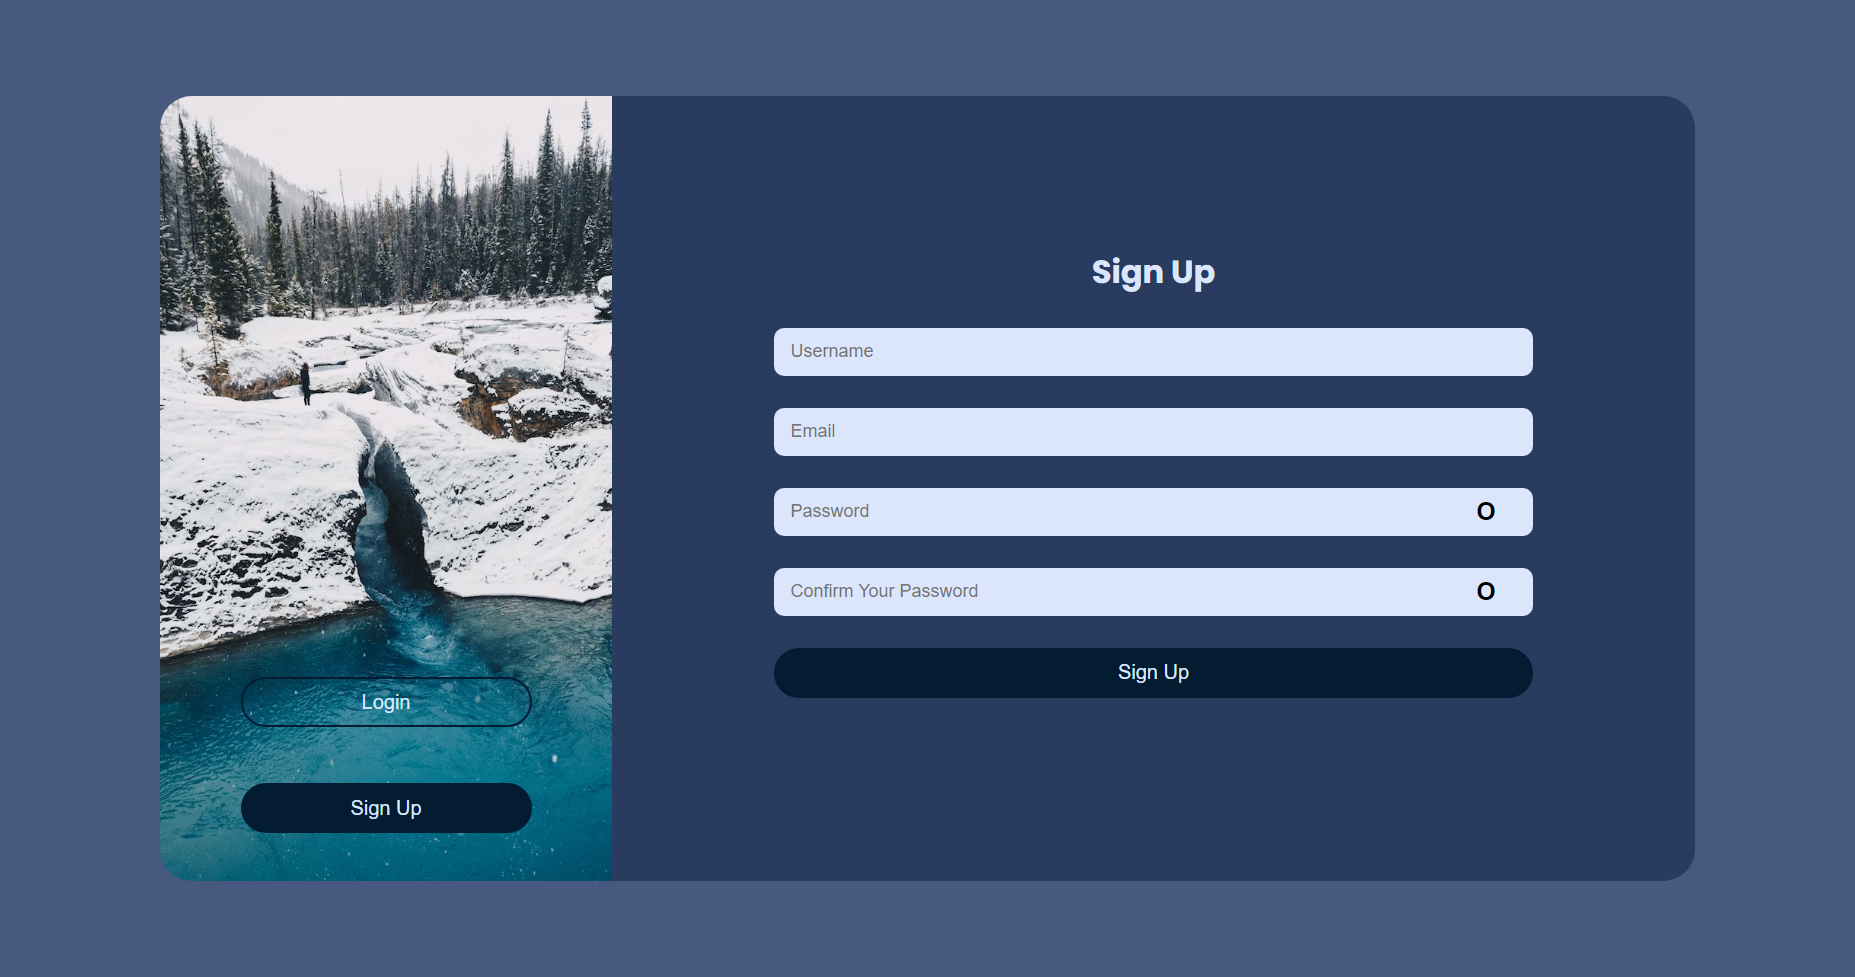
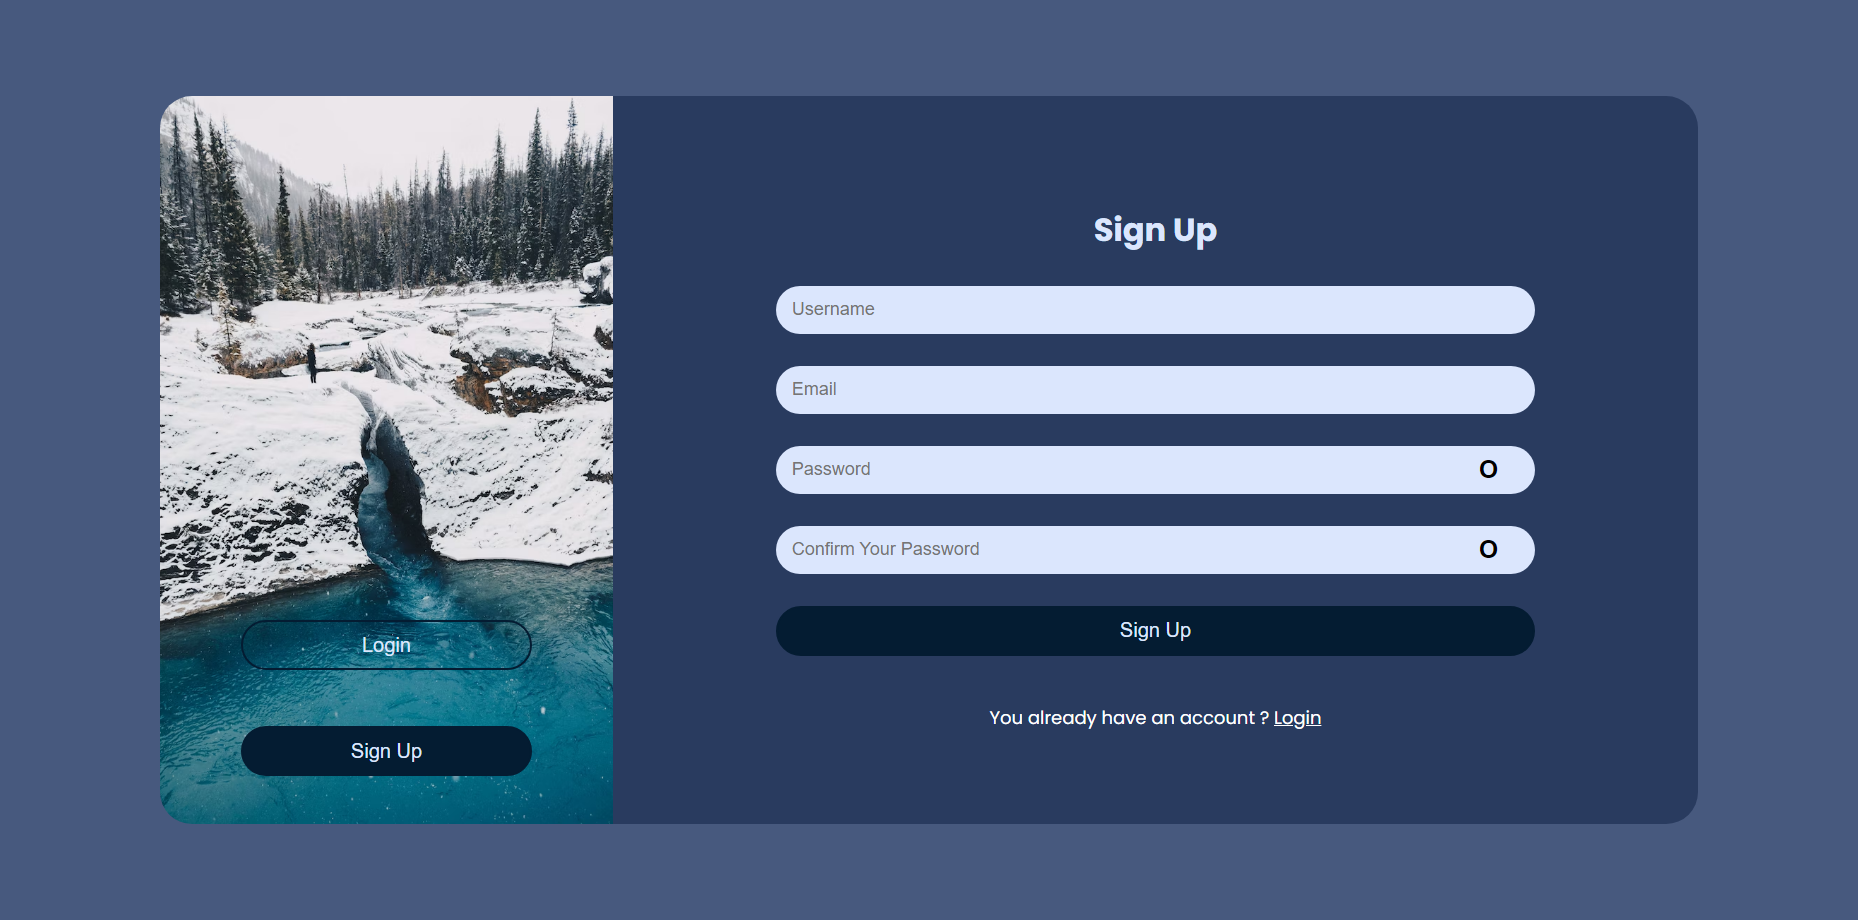
fully responsive login/sign up page

diff --git a/style.css b/style.css
@@ -113,8 +113,8 @@ button {
 }
 
 .login-form {
-  width: 50%;
-  height: 100%;
+  width: 70%;
+  height: 900%;
   display: flex;
   justify-content: center;
   align-items: center;
@@ -139,7 +139,7 @@ button {
 .login-form input {
   width: 100%;
   height: 3rem;
-  padding: 1rem 1.5rem;
+  padding: 1rem 1rem;
   font-size: 18px;
   border-radius: 32px;
   outline: none;
@@ -202,7 +202,7 @@ button {
   height: 3rem;
   padding: 1rem;
   font-size: 18px;
-  border-radius: 10px;
+  border-radius: 32px;
   outline: none;
   border: none;
   color: #777777;
@@ -224,4 +224,35 @@ button {
 
 .active {
   display: none;
+}
+
+@media only screen and (max-width: 873px) {
+  .container {
+    display: none;
+  }
+  .form-page {
+    width: 100%;
+    border-radius: 32px;
+    overflow: hidden;
+  }
+}
+
+@media only screen and (max-width: 655px) {
+  .container {
+    display: none;
+  }
+
+  .main-container {
+    padding: 0;
+    margin: 0;
+  }
+
+  .form-page {
+    width: 100%;
+    border-radius: 32px;
+    overflow: hidden;
+    padding: 0;
+    margin: 0;
+    border-radius: 0;
+  }
 }

diff --git a/script.js b/script.js
@@ -4,6 +4,22 @@ const loginForm = document.querySelector(".login-form");
 const registerForm = document.querySelector(".register-form");
 const loginSubmit = document.getElementById("loginSubmit");
 const registerSubmit = document.getElementById("registerSubmit");
+const signupText = document.getElementById("signupText");
+const loginText = document.getElementById("loginText");
+
+signupText.addEventListener("click", () => {
+  registerForm.classList.remove("active");
+  register.classList.add("btn-colored");
+  login.classList.remove("btn-colored");
+  loginForm.classList.add("active");
+});
+
+loginText.addEventListener("click", () => {
+  registerForm.classList.add("active");
+  login.classList.add("btn-colored");
+  register.classList.remove("btn-colored");
+  loginForm.classList.remove("active");
+});
 
 login.addEventListener("click", () => {
   registerForm.classList.add("active");

diff --git a/index.html b/index.html
@@ -45,6 +45,12 @@
           >
             Login
           </button>
+          <p style="color: #fff">
+            Need an account ?
+            <a id="signupText" style="text-decoration: underline" href="#"
+              >Sign Up</a
+            >
+          </p>
         </div>
         <div class="register-form active">
           <h3>Sign Up</h3>
@@ -67,6 +73,12 @@
           <button id="registerSubmit" class="btn btn-register btn-colored">
             Sign Up
           </button>
+          <p style="color: #fff">
+            You already have an account ?
+            <a style="text-decoration: underline" id="loginText" href=""
+              >Login</a
+            >
+          </p>
         </div>
       </div>
     </div>
